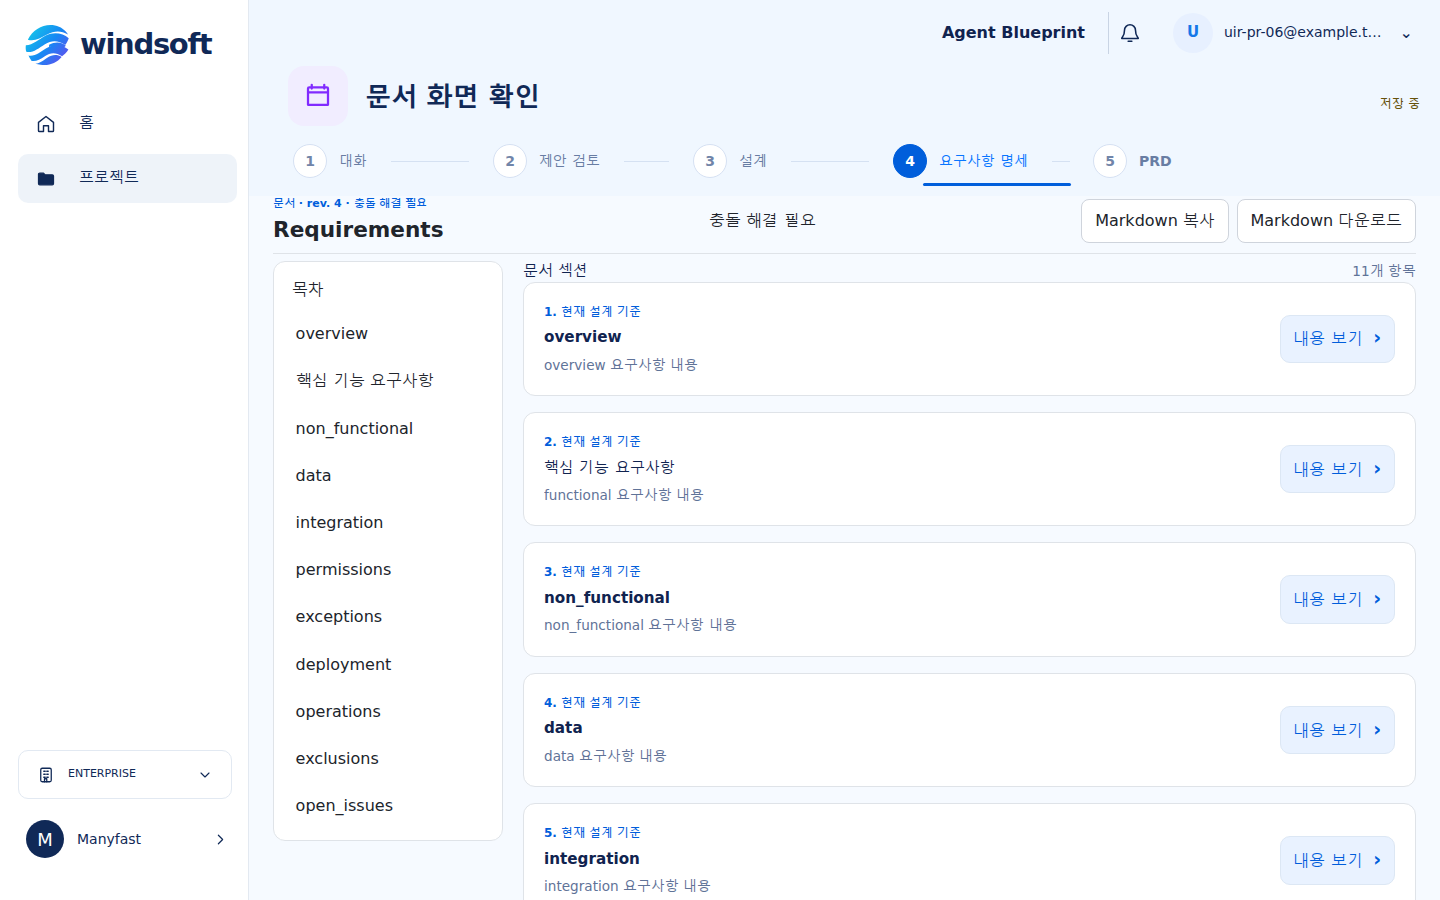
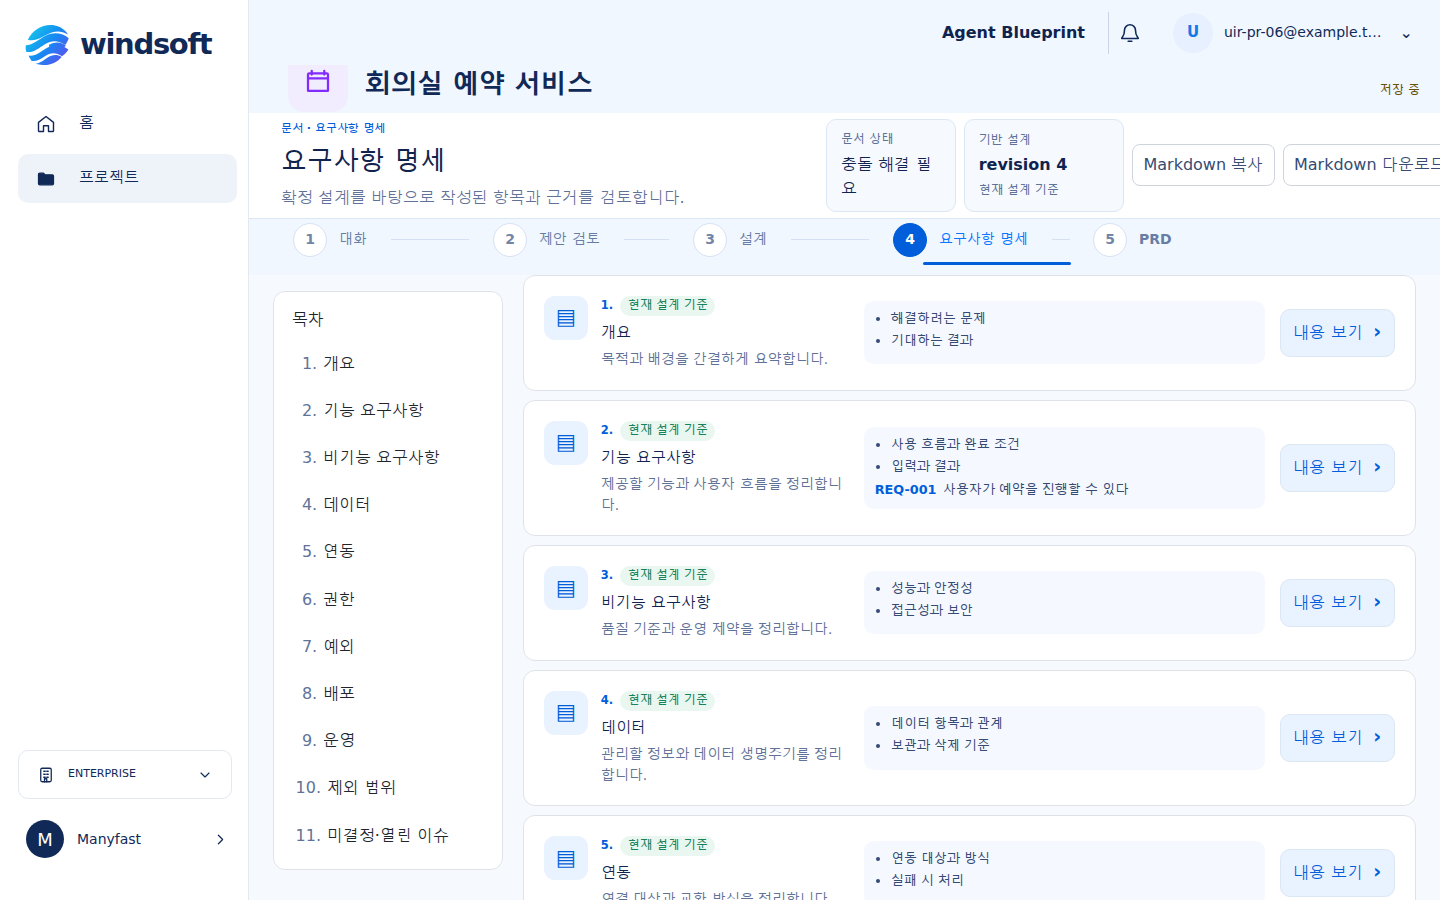
Refresh document flow screenshots

diff --git a/docs/delivery/evidence/UIR-PR-06/README.md b/docs/delivery/evidence/UIR-PR-06/README.md
@@ -1,6 +1,6 @@
 # UIR-PR-06 visual evidence
 
-These screenshots use synthetic local browser fixtures with generic, non-product-specific Korean section markdown. The refreshed requirements overview screenshots show the Korean `요구사항 명세` title, 11 individually navigable localized sections, linked requirement data, step 4 current, and PRD as separate next step 5. They were captured from follow-up commit `53a358241a42341373388f734134f68dba0fa3e5`, based on merged `origin/main` `42f5bc763f76a571329f0d9bfd600be11ed01f39`, at 1440×900 desktop and 390×844 mobile CSS viewports. The complete evidence set, including interaction-state captures, is stored under `docs/delivery/evidence/UIR-PR-06/`; raw Playwright artifacts remain under `.pr-artifacts/UIR-PR-06/`.
+These screenshots use synthetic local browser fixtures with generic, non-product-specific Korean section markdown. The refreshed screenshots were captured at PR #55 HEAD `354da91b0971b4e1571ad43881ca720d7ca455bf` at 1440×900 desktop and 390×844 mobile CSS viewports. The UIR-PR-06 Playwright spec regenerated the overview and conflict states (2/2 passed); the Requirements readiness and PRD editing-flow specs regenerated other existing states affected by the shared document header/cards (8/8 passed). The requirements overview shows the Korean `요구사항 명세` title, 11 individually navigable localized sections, linked requirement data, step 4 current, and PRD as separate next step 5. The complete evidence set, including interaction-state captures, is stored under `docs/delivery/evidence/UIR-PR-06/`; raw Playwright artifacts remain under `.pr-artifacts/UIR-PR-06/`.
 
 Primary references: [Requirements dashboard](../../../blueprint-design/회의실%20예약%20서비스%20요구사항%20대시보드.png) and [PRD dashboard](../../../blueprint-design/한국어%20PRD%20대시보드%20화면.png), both 1586×992. Template captures were used only to verify requirements draft/overview/detail and PRD generation states absent from the primary images.
 
@@ -12,9 +12,9 @@ Ready document overview, 11 localized sections:
 
 ![Requirements mobile overview](requirements-overview-mobile-390x844.png)
 
-Ready confirmation and document support/source access are also covered by `requirements-ready-*.png` and `requirements-sources-mobile-390x844.png`.
+Ready confirmation and document support/source access are also covered by `requirements-ready-*.png` and `requirements-sources-*.png`.
 
-Requirements conflict overview/detail captures are available at both viewports. The header reports `충돌 해결 필요`; the detail view shows the edit lock and resolution guidance.
+Requirements conflict overview/detail captures are available at both viewports. The header reports `충돌 해결 필요`; the detail view shows the edit lock and resolution guidance. These captures were regenerated at PR #55 HEAD with the current 11-card hierarchy.
 
 ## PRD
 
@@ -24,11 +24,11 @@ The overview includes one stale and one conflict section. Selected section detai
 
 ![PRD mobile overview](prd-overview-mobile-390x844.png)
 
-The conflict detail and stale overview are also captured at both viewports. Conflict sections show resolution guidance without an edit control, and stale PRD status is labeled `최신 설계와 다름`.
+The conflict detail and stale overview are also captured at both viewports. Conflict sections show resolution guidance without an edit control, and stale PRD status is labeled `최신 설계와 다름`. PRD overview, detail, loading, and locked captures were refreshed at PR #55 HEAD because the shared stage/document presentation is visible in those states.
 
 ## Editing and supported flows
 
-The evidence set also includes direct editor and impact-dialog states, source-result keyboard focus, and setup-guide review on desktop/mobile.
+The evidence set also includes direct editor and impact-dialog states, source-result keyboard focus, and setup-guide review on desktop/mobile. The PRD editor mobile capture and desktop impact dialog were regenerated at PR #55 HEAD; unrelated evidence states were retained.
 
 ## Primary-reference anchor comparison
 
